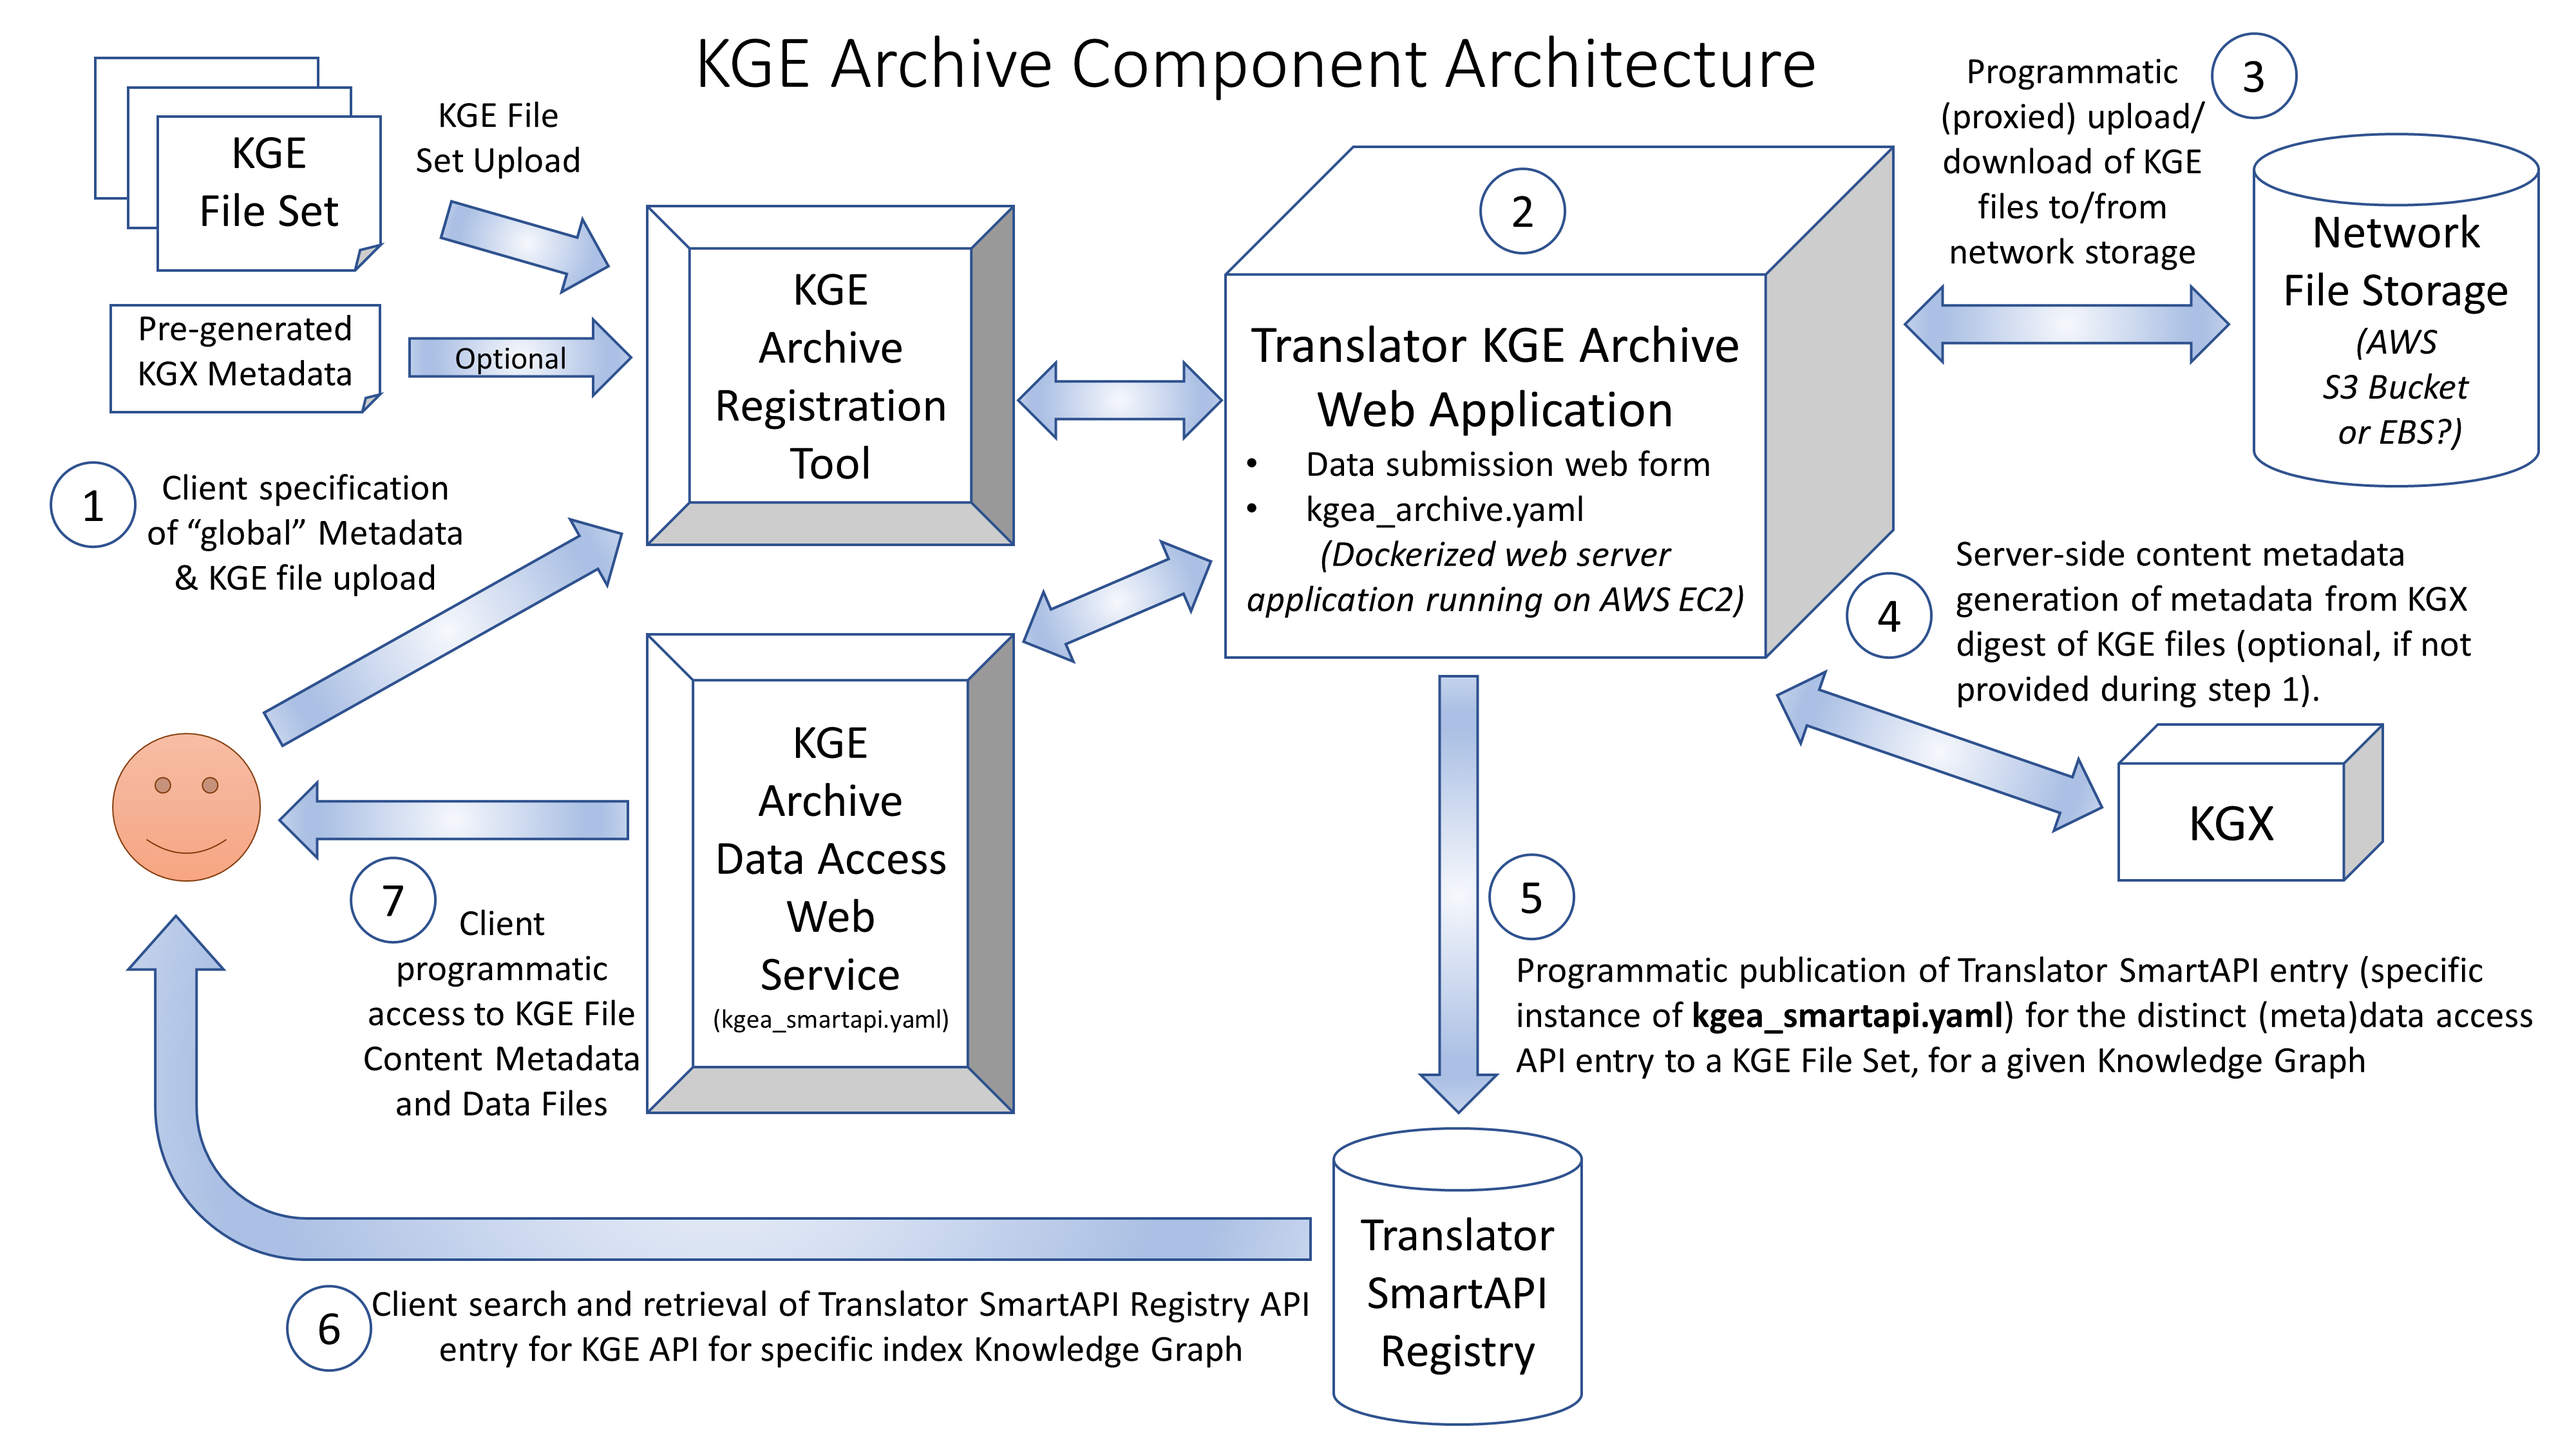
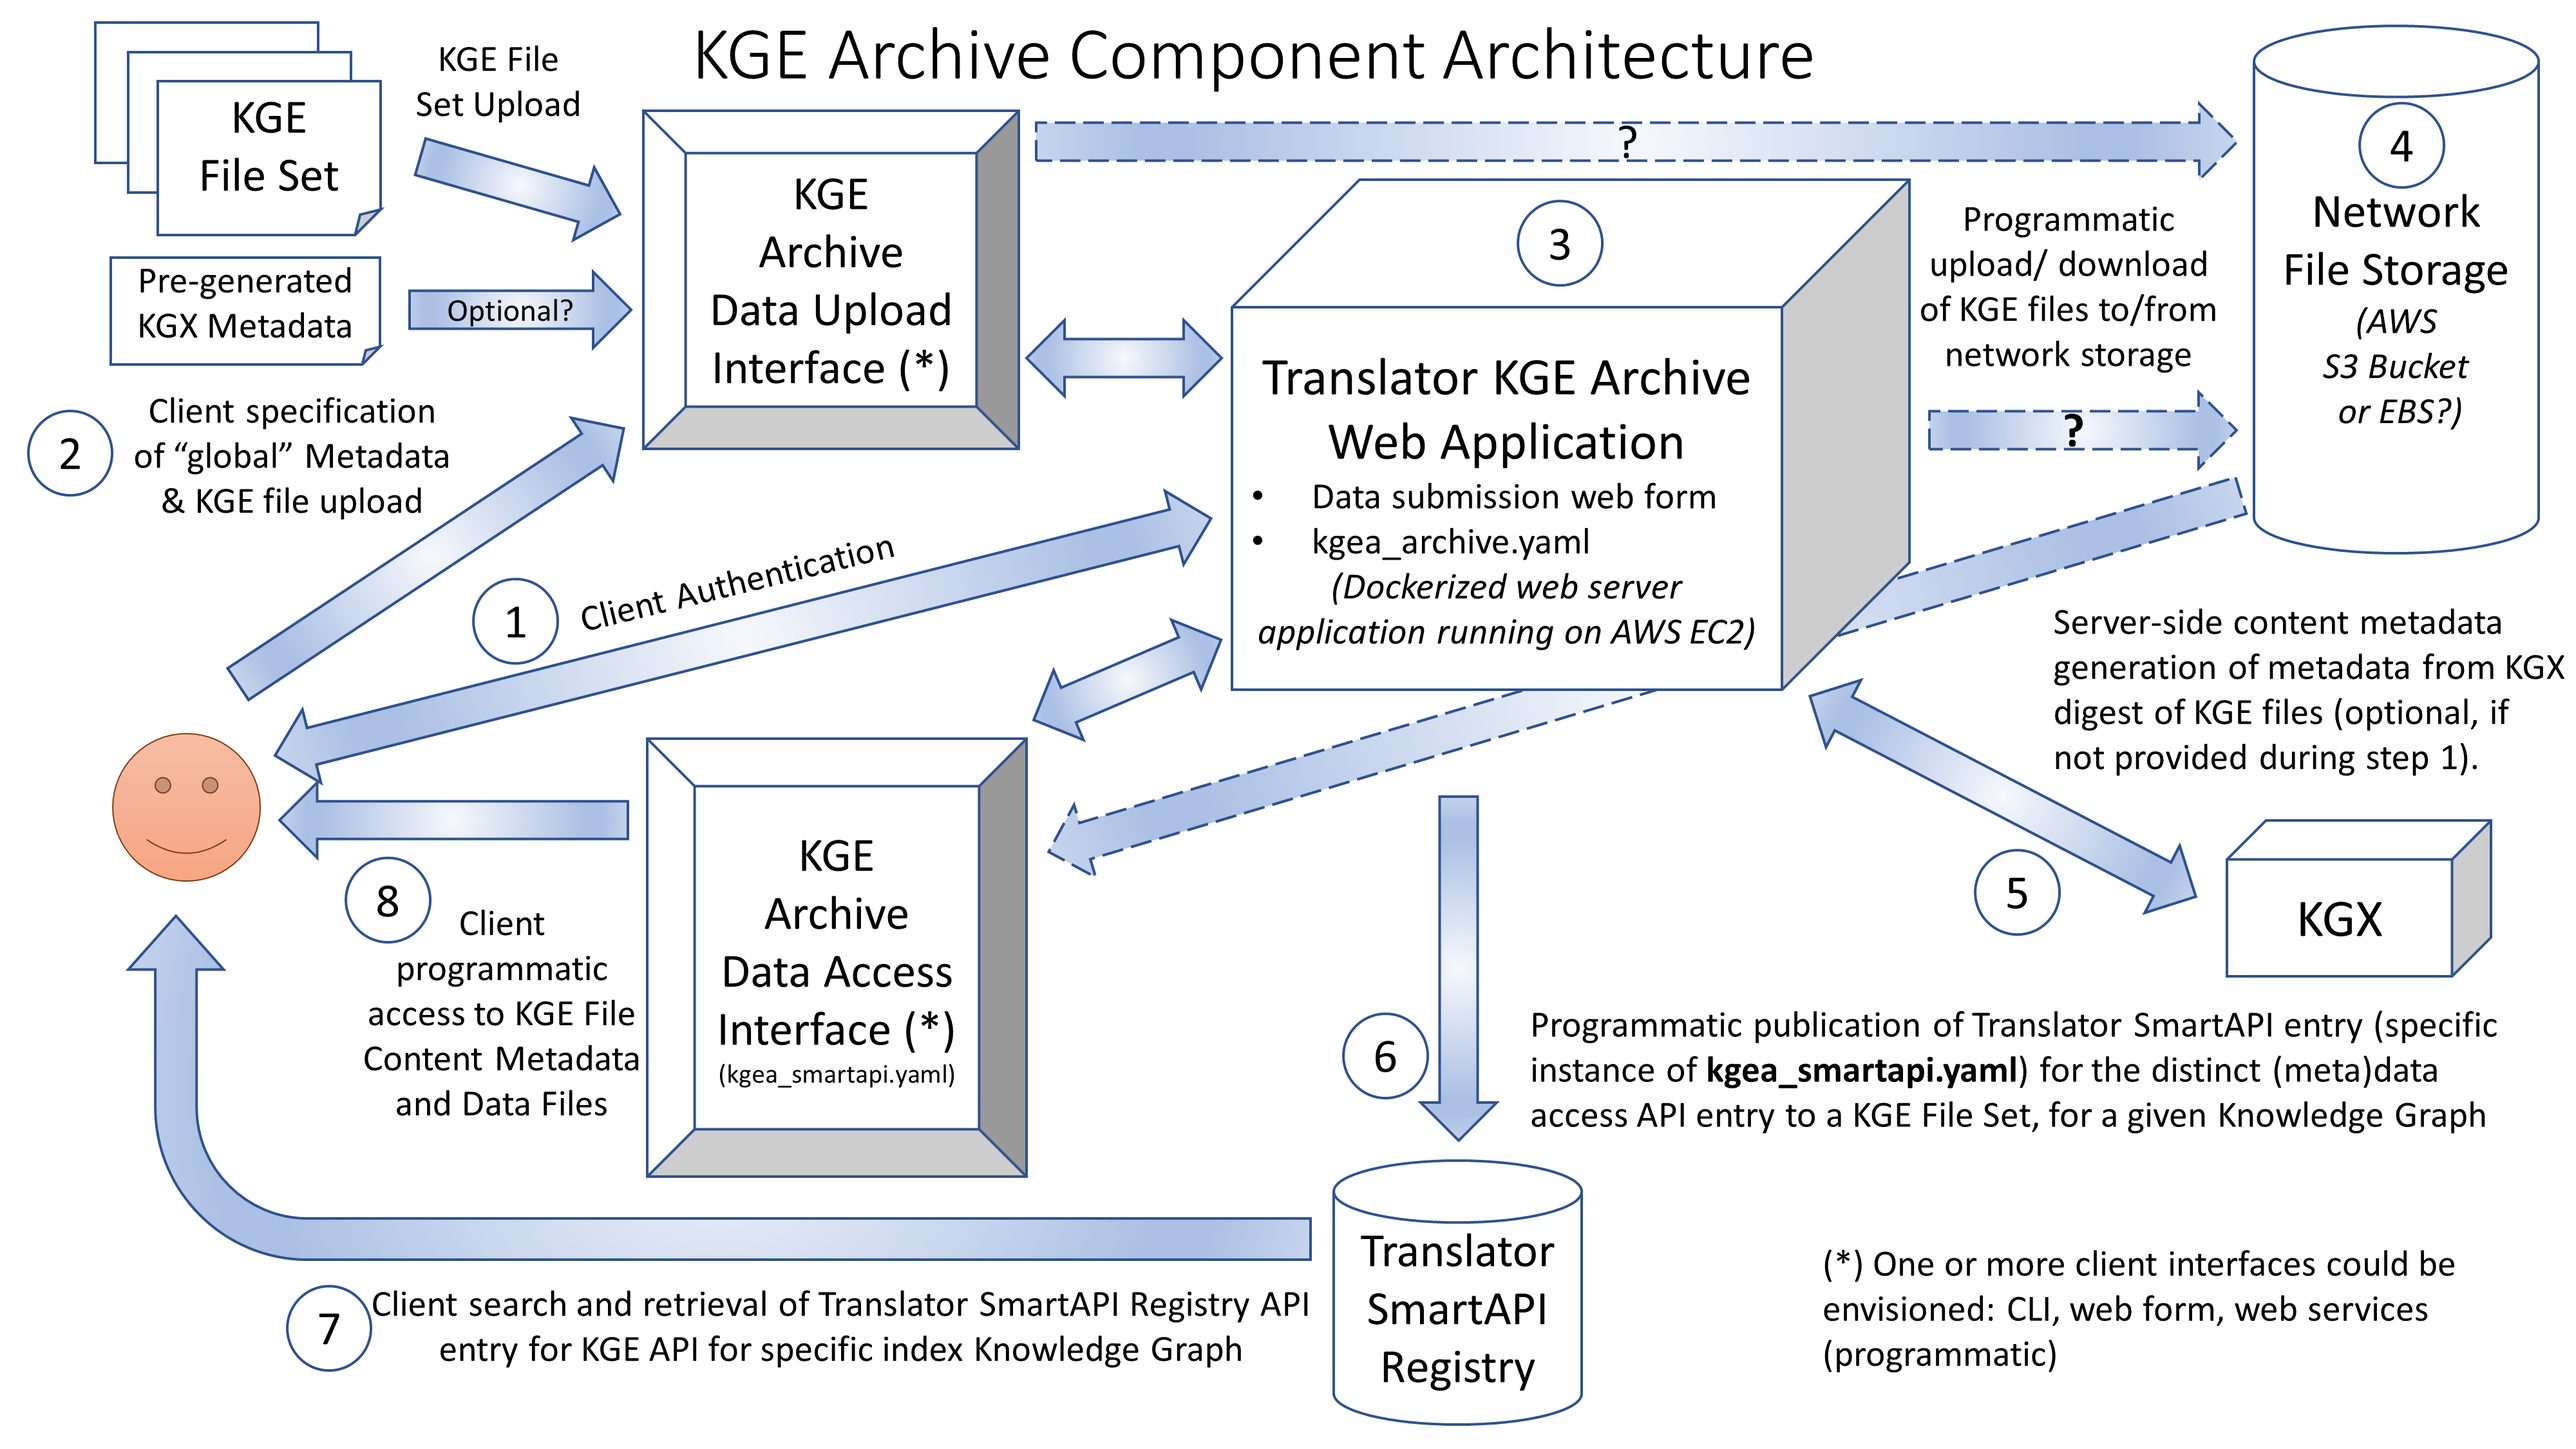
mention client user auth/auth in text and diagram

diff --git a/kgea/KGE_ARCHIVE_ROADMAP.md b/kgea/KGE_ARCHIVE_ROADMAP.md
@@ -7,13 +7,14 @@ In discussing the plan, the 'primary' client pertains to the initial user transa
 Further specific details and road map of the Archive's design and its implementation - in global terms and with respect to the numbered functional parts noted on the KGE Archive Component Architecture diagram are summarized here below in this document .
 
 - [General Considerations](#general-considerations)
-1. [Primary Client KGE File Set Upload](#1-primary-client-kge-file-set-upload)
-2. [KGE Archive Server](#2-kge-archive-server)
-3. [KGE File Set Network Storage](#3-kge-file-set-network-storage)
-4. [KGX Metadata Generation](#4-kgx-metadata-generation)
-5. [KGE SmartAPI Registration](#5-kge-smartapi-registration)
-6. [Secondary Client Access to KGE SmartAPI Entries](#6-secondary-client-access-to-kge-smartapi-entries)
-7. [Secondary Client Access to KGE Files](#7-secondary-client-access-to-kge-files)
+1. [Client Authentication & Authorization](#1-client-authentication--authorization)
+2. [Primary Client KGE File Set Upload](#2-primary-client-kge-file-set-upload)
+3. [KGE Archive Server](#3-kge-archive-server)
+4. [KGE File Set Network Storage](#4-kge-file-set-network-storage)
+5. [KGX Metadata Generation](#5-kgx-metadata-generation)
+6. [KGE SmartAPI Registration](#6-kge-smartapi-registration)
+7. [Secondary Client Access to KGE SmartAPI Entries](#7-secondary-client-access-to-kge-smartapi-entries)
+8. [Secondary Client Access to KGE Files](#8-secondary-client-access-to-kge-files)
 
 ![KGE Archive Architecture](../docs/KGE_Archive_Architecture.png?raw=true "KGE Archive Architecture")
 
@@ -22,11 +23,15 @@ Further specific details and road map of the Archive's design and its implementa
 - The heart of the KGE Archive system will be a publicly visible, user authentication secured, web service application [2].
 - Since NCATS (Biomedical Translator Consortium) operates most of its deployed infrastructure on a private (VPN) leased sub-cloud of Amazon Web Services (AWS) servers and related components, deployment of the KGI Archive is assumed to target AWS EC2, and related PAAS services, as its deployment platform.
 
-# 1. Primary Client KGE File Set Upload
+# 1. Client Authentication & Authorization
+
+Clients to the Archive will need to be authenticated. AWS off-the-shelf services (e.g. AWS Cogito) will be leveraged, though available AWS SDK's, to implement all Client user authentication and authorization.
+
+# 2. Primary Client KGE File Set Upload
 
 The precise form, protocol and software support for KGE File Set uploading [1] is to be elaborated...
 
-# 2. KGE Archive Server
+# 3. KGE Archive Server
 
 - The core web service application [2] will be installed to run within a suitable software deployment framework (a Docker Compose managed set of Docker containers) hosted on an AWS EC2 instance, running a common flavor (i.e. Ubuntu) of the Linux operating system.
   
@@ -44,11 +49,11 @@ The precise form, protocol and software support for KGE File Set uploading [1] i
   
     - **Github Transactions:** publication of SmartAPI entries for KGE File Sets [5] can be accomplished using an available [Python library for programmatic access to Github](https://docs.github.com/en/rest/overview/libraries#python). 
    
-# 3. KGE File Set Network Storage
+# 4. KGE File Set Network Storage
 
 Archived KGE file sets encoding Translator Knowledge Graphs, are KGX text files which are anticipated to be, on average, fairly large (e.g. gigabytes in size). Although such files could potentially be hosted on AWS EBS volumes attached to the aforementioned EC2 server instance, longer term stable persistence of such large files only periodically accessed, suggests that they should be hosted within an AWS S3 bucket. The aforementioned Boto3 Python AWS SDK library will (hopefully) efficiently broker web service application transactions with S3.
    
-# 4. KGX Metadata Generation
+# 5. KGX Metadata Generation
 
 KGX-generated 'content' metadata, perhaps augmented with some additional KGE Archive-specific 'provider' metadata, will need to be associated with every distinct knowledge graph published as a KGE File Set.
 
@@ -58,7 +63,7 @@ Two options are possible for the provision of KGX 'content' metadata:
 
 2. the Archive server will run an instance of KGX (running as a background process on the server, perhaps in a dedicated Docker container?) to generate the required content metadata file from previously uploaded KGX files. 
    
-# 5. KGE SmartAPI Registration
+# 6. KGE SmartAPI Registration
 
 The standard mechanism for the recording of Translator SmartAPI Registry ("Registry") entries to Translator resources to consume SmartAPI-compliant OpenAPI 3 YAML specifications from a designated Github repository location (e.g. the [Translator API Registry github repository](https://github.com/NCATS-Tangerine/translator-api-registry)).  Such a location can contain multiple distinct SmartAPI entries, one per distinct API.  Every API registered in such a location needs to resolve to a host/path location of a live OpenAPI 3 implementation of the API.
 
@@ -68,11 +73,11 @@ For the former objective, the Archive will populate a KGE File Set specific inst
 
 Archive publication of KGE File Set SmartAPI entries will consist of a `git` commit and push of the KGE File Set-specific API YAML file to a  SmartApi registered Github repository location, likely within the [Translator API Registry github repository](https://github.com/NCATS-Tangerine/translator-api-registry) and updating of any associated [API List](https://github.com/NCATS-Tangerine/translator-api-registry/blob/master/API_LIST.yml) on the site. The full details of full automation of this process require further elaboration.
 
-# 6. Secondary Client Access to KGE SmartAPI Entries
+# 7. Secondary Client Access to KGE SmartAPI Entries
 
 As mentioned in [the high level architectural vision document](../KGE_ARCHIVE_ARCHITECTURE.md), the SmartAPI Registry team already have infrastructure in place on the [Translator SmartAPI Portal](https://smart-api.info/portal/translator) to handle this step in the KGE workflow, so there is no action required here. 
    
-# 7. Secondary Client Access to KGE Files
+# 8. Secondary Client Access to KGE Files
 
 As noted in [5] above, KGE File Set SmartAPI entries will point to a live server path indexed by knowledge graph name and hosted by the Archive web service application [2].  The key design considerations for this step is to specify the specific modality of access and its practical implementation.
 
@@ -82,5 +87,4 @@ In terms of practical implementation, given the anticipated large anticipated si
 
 1. That the Archive web server acts like a proxy gateway streaming such files to a secondary client, through the server, from the back end network storage system (AWS S3 bucket, perhaps via EBS buffering on the EC2 server)
 
-2. That the Archive merely returns a direct URL - with an appropriate user authentication/authorization access token (OAuth2, with short term expiration?) - pointing to the back end network storage system (AWS S3 bucket), which the secondary client then uses to directly access the files from the storage system (without going through the server).
-
+2. That the Archive merely returns a suitable interface - CLI, web form, web service call endpoint, etc. - with an appropriate temporary user authorization access token (i.e. AWS Cogito issued, with short term expiration?) - pointing to the back end network storage system (AWS S3 bucket), which the secondary client then uses to directly access the files from the storage system (without going through the server).
